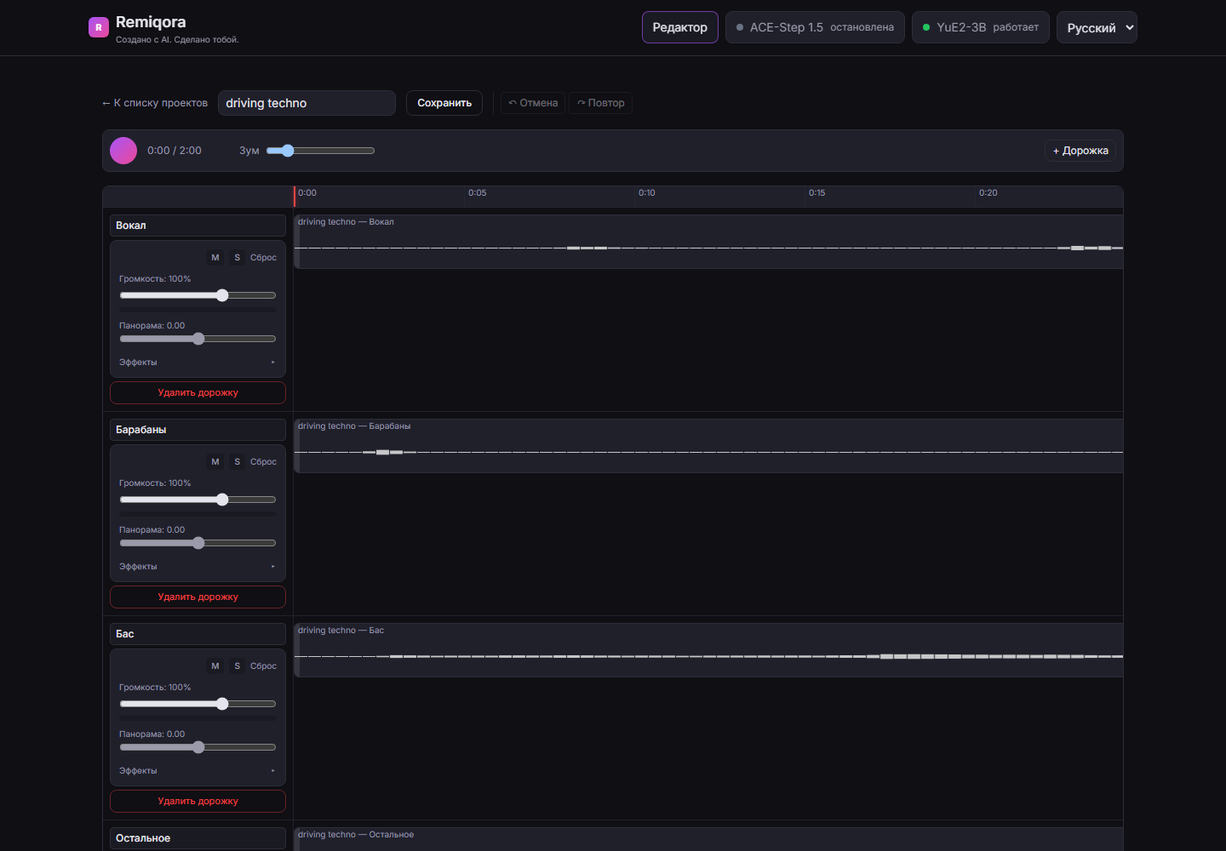
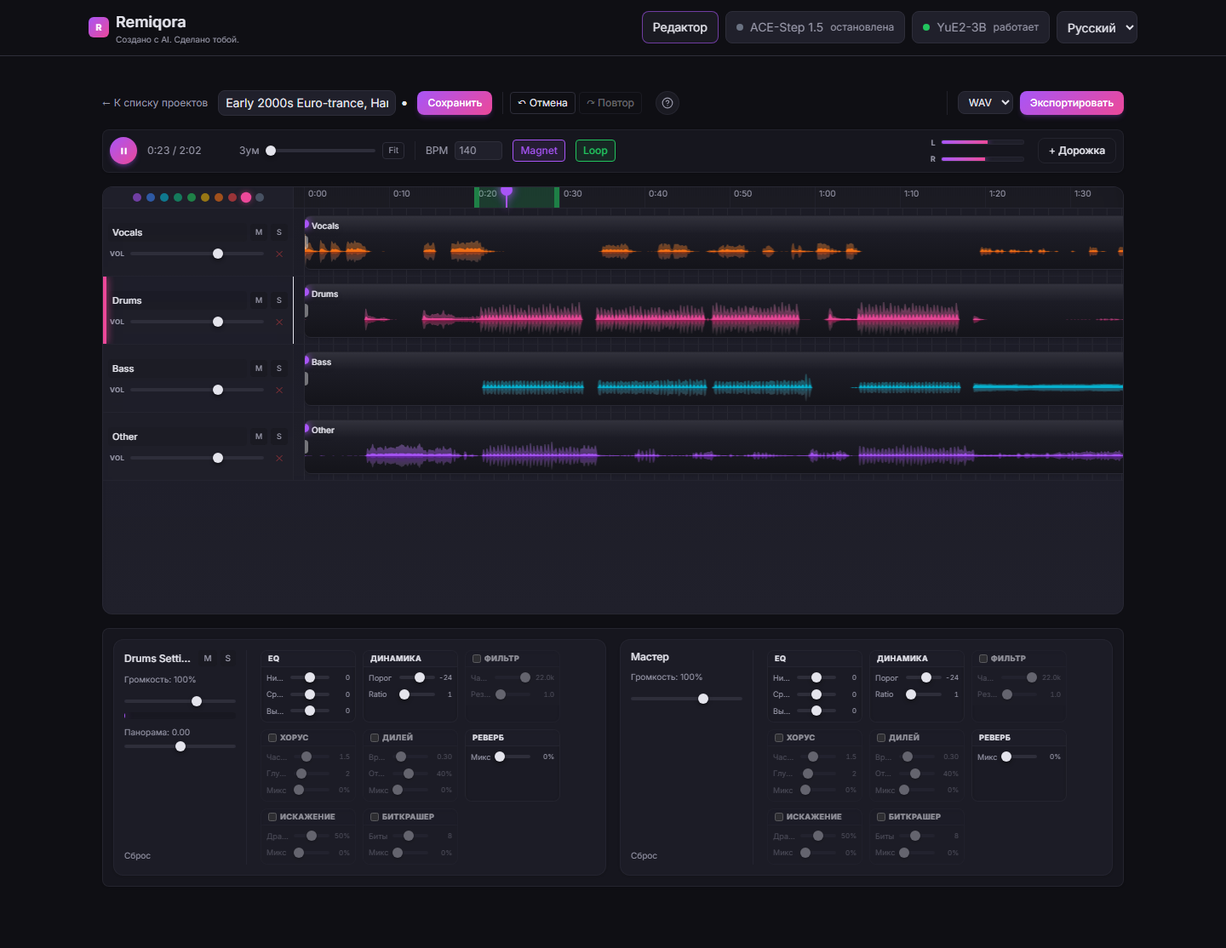
docs: rewrite DAW section and refresh screenshots
- Rewrite the Built-in DAW section in both READMEs: timeline and clips,
  channels and effects, help, project and export
- Drop the removed Mixer section and mixer mentions
- New DAW screenshots (project with four stems) and refreshed stems panel
  for both languages; EN README now points at English screenshots
- Remove the stale mixer screenshots

diff --git a/README.ru.md b/README.ru.md
@@ -47,8 +47,8 @@ ACE-Step и YuE2 — два независимых движка генераци
 
 - **Один UI** вместо двух разных интерфейсов с разным UX.
 - **Взаимоисключающий оркестратор**: выбрали модель в шапке — она поднимается, а другая гасится сама. Не нужно руками стопать процессы перед стартом другого движка.
-- **Общее хранилище**: все треки (сгенерированные, загруженные, собранные в редакторе) сохраняются в единой библиотеке (SQLite + файлы) и доступны из любого модуля — Demucs, MuScriptor, микшер и редактор работают с одной и той же библиотекой, а не тремя разными.
-- **DAW поверх генерации**: результат генерации — это не конечная точка, а сырьё для дальнейшей сборки: разделить на стемы, свести в микшере, перетащить на таймлайн, свести с другими треками и экспортировать.
+- **Общее хранилище**: все треки (сгенерированные, загруженные, собранные в редакторе) сохраняются в единой библиотеке (SQLite + файлы) и доступны из любого модуля — Demucs, MuScriptor и редактор работают с одной и той же библиотекой, а не тремя разными.
+- **DAW поверх генерации**: результат генерации — это не конечная точка, а сырьё для дальнейшей сборки: разделить на стемы, перетащить на таймлайн, обработать эффектами, свести с другими треками и экспортировать.
 - **Своя LoRA-тренировка**: не только генерация — можно дообучить ACE-Step на собственном голосе/стиле прямо из браузера, без консоли.
 
 ---
@@ -63,7 +63,7 @@ ACE-Step и YuE2 — два независимых движка генераци
 | **Тренировка LoRA** | Датасет → авто-разметка → препроцессинг → тренировка → экспорт — весь пайплайн дообучения ACE-Step на своём голосе/стиле в браузере. |
 | **Demucs** | Разделение любого трека на 4 стема: вокал, барабаны, бас, остальное. |
 | **MuScriptor** | Транскрипция аудио (полного микса или отдельного стема) в MIDI-ноты. |
-| **Встроенный DAW** | Многодорожечный таймлайн-редактор для сборки треков/стемов в финальный микс. |
+| **Встроенный DAW** | Многодорожечный таймлайн-редактор для сборки треков/стемов в финальный микс: рэк эффектов на каждом канале, авто-BPM и time-stretch, экспорт в WAV/MP3. |
 
 Интерфейс полностью двуязычный (русский/английский, переключатель в шапке).
 
@@ -109,7 +109,7 @@ ACE-Step и YuE2 — два независимых движка генераци
 
 ![Разделение на стемы](docs/screenshots/05-stems-panel.png)
 
-Одной кнопкой любой сохранённый трек режется на 4 изолированных стема (Demucs `htdemucs`), с прогресс-баром, отдельным плеером и скачиванием на каждый стем, возможностью пересоздать или удалить. Работает параллельно с активной моделью генерации (не останавливая её) на общем GPU-локе.
+Одной кнопкой любой сохранённый трек режется на 4 изолированных стема (Demucs `htdemucs`), с прогресс-баром, отдельным плеером и скачиванием на каждый стем, возможностью пересоздать или удалить. Работает параллельно с активной моделью генерации (не останавливая её) на общем GPU-локе. Кнопка **«Открыть в редакторе»** позволяет мгновенно отправить все 4 стема в новый проект встроенного DAW для последующего сведения.
 
 ## Транскрипция в MIDI (MuScriptor)
 
@@ -117,24 +117,38 @@ ACE-Step и YuE2 — два независимых движка генераци
 
 Транскрибирует в MIDI полный микс или любой уже отделённый стем по отдельности. Технически это не отдельный процесс, а модель, подгружаемая в уже запущенный сервер YuE2 — поэтому **транскрипция требует, чтобы активной моделью была именно YuE2**. Результат: встроенный плеер на Web Audio синтезаторе, мини Piano Roll, счётчик нот и BPM, скачивание `.mid`.
 
-## Микшер
-
-![Микшер стемов](docs/screenshots/09-mixer.png)
-
-Фиксированная 4-канальная консоль (вокал/барабаны/бас/остальное + мастер) для быстрого сведения стемов: громкость, панорама, mute/solo, 3-полосный EQ, компрессор, реверб, VU-метры с индикацией клиппинга. Настройки сохраняются автоматически. Кнопка **«Открыть в редакторе»** переносит все 4 стема с текущими настройками в новый проект полноценного DAW — микшер задуман как быстрый предпросмотр, редактор — как его надмножество.
-
 ## Встроенный DAW
 
-![Редактор с клипом на таймлайне](docs/screenshots/08-editor-with-clip.png)
+![Редактор: проект из четырёх стемов на таймлайне](docs/screenshots/08-editor-with-clip.png)
 
-Произвольное число дорожек, на которые можно добавлять что угодно из общей библиотеки (полный микс, отдельный стем, загруженный с диска файл) — через диалог выбора или прямым перетаскиванием файла на дорожку.
+Произвольное число дорожек, на которые можно добавлять что угодно из общей библиотеки (полный микс, отдельный стем, загруженный с диска файл) — через диалог выбора или прямым перетаскиванием файла на дорожку. Быстрее всего начать со стемов: кнопка **«Открыть в редакторе»** на панели стемов создаёт готовый проект из четырёх дорожек (вокал, барабаны, бас, остальное).
 
-- Свободное перемещение и обрезка краёв клипов (не разрушающая — исходный файл не трогается), магнитное прилипание к соседним клипам и к нулю таймлайна.
-- **Undo/Redo** (Ctrl+Z / Ctrl+Y) — история до **30 шагов**.
-- Горячие клавиши: `Space` — плей/пауза, `Delete` — удалить клип, `Ctrl+D` — дублировать, `Ctrl+колесо` — зум.
-- Защита от потери несохранённых правок при закрытии вкладки или переходе на другую страницу.
-- **Микрофейды**: автоматические линейные рампы 15 мс на краях каждого клипа — убирают цифровые щелчки на резких обрезках.
-- VU-метры с клиппингом на каждой дорожке и мастер-шине; тот же канал-стрип (EQ/компрессор/реверб), что и в микшере.
+### Таймлайн и клипы
+
+- Свободное перемещение и обрезка краёв клипов (не разрушающая — исходный файл не трогается). Клипы всегда прилипают к краям соседних клипов и к нулю таймлайна; кнопка **Magnet** дополнительно включает привязку к сетке по BPM проекта (шаг зависит от масштаба: 1/16, 1/8, 1/4 ноты или такт).
+- **Разрез клипа** под курсором (`S`), дублирование (`Ctrl+D`), удаление (`Delete`).
+- Кнопки на самом клипе: **M** (mute), **S** (solo), **W** (warp) и ✕. По краям клипа — перетаскиваемые ручки **fade-in / fade-out**; по умолчанию на краях стоят автоматические 15 мс микрофейды, убирающие цифровые щелчки на резких обрезках.
+- **Loop**: регион зацикливания на линейке времени — его можно двигать целиком и тянуть за оба края; клик по линейке перематывает воспроизведение.
+- **BPM и Warp**: при добавлении клипа из библиотеки или перетаскиванием с диска темп определяется автоматически (по первым 30 секундам). Поле **BPM** задаёт темп проекта, а кнопка **W** подгоняет клип под этот темп time-stretch'ем (SoundTouch), сохраняя тональность. Детектор простой — на сложном материале может ошибаться.
+- **Undo/Redo** (`Ctrl+Z` / `Ctrl+Y`) — история до **30 шагов**. Зум — `Ctrl+колесо` или ползунок с кнопкой **Fit**, прокрутка таймлайна — `Shift+перетаскивание` или средняя кнопка мыши.
+
+### Каналы и эффекты
+
+![Рэк эффектов на канале вокала](docs/screenshots/10-editor-effects.png)
+
+- У каждой дорожки — громкость, панорама, mute/solo и цвет (кружки над списком дорожек), плюс общая мастер-шина.
+- **Рэк из 8 эффектов** на каждом канале и на мастере: Эквалайзер (Low/Mid/High, ±12 дБ), Динамика (компрессор: порог и ratio), Фильтр (LP/HP: частота и резонанс), Хорус, Дилей, Реверб, Искажение и Биткрашер. Все эффекты работают в реальном времени, значения параметров показываются рядом со слайдерами.
+- Стерео VU-метры мастера (L/R) в тулбаре и индикатор уровня с признаком клиппинга в канале выбранной дорожки.
+
+### Справка
+
+![Встроенная справка по редактору](docs/screenshots/11-editor-help.png)
+
+Кнопка **«?»** в тулбаре открывает встроенную справку: список горячих клавиш, управление мышью и короткие подсказки по Loop и Magnet.
+
+### Проект и экспорт
+
+- Проекты хранятся на сервере и открываются из списка. Автосохранения нет — есть кнопка **«Сохранить»**, а при закрытии вкладки или переходе на другую страницу с несохранёнными правками редактор предупреждает о возможной потере.
 - Экспорт сведённого проекта в **WAV** или **MP3** — рендерится оффлайн (тот же граф обработки, что и при живом воспроизведении) и сохраняется обратно в общую библиотеку треков.
 
 ---

diff --git a/README.md b/README.md
@@ -47,8 +47,8 @@ ACE-Step and YuE2 are two independent music generation engines, each with its ow
 
 - **One UI** instead of two different interfaces with different UX.
 - **Mutually-exclusive orchestrator**: pick a model in the header — it starts up, and the other one stops on its own. No need to manually kill processes before starting the other engine.
-- **Shared storage**: every track (generated, uploaded, or assembled in the editor) is tracked in a centralized SQLite database and shared folder, available from every module — Demucs, MuScriptor, the mixer and the editor all work off the same library instead of three separate ones.
-- **A DAW on top of generation**: a generated track isn't the end point, it's raw material — split it into stems, mix it down, drag it onto a timeline, blend it with other tracks, and export.
+- **Shared storage**: every track (generated, uploaded, or assembled in the editor) is tracked in a centralized SQLite database and shared folder, available from every module — Demucs, MuScriptor and the editor all work off the same library instead of three separate ones.
+- **A DAW on top of generation**: a generated track isn't the end point, it's raw material — split it into stems, drag it onto a timeline, process it with effects, blend it with other tracks, and export.
 - **Built-in LoRA training**: not just generation — fine-tune ACE-Step on your own voice or style right from the browser, no console needed.
 
 ---
@@ -63,7 +63,7 @@ ACE-Step and YuE2 are two independent music generation engines, each with its ow
 | **LoRA training** | Dataset → auto-labeling → preprocessing → training → export — the whole ACE-Step fine-tuning pipeline for your own voice/style, in the browser. |
 | **Demucs** | Splits any track into 4 stems: vocals, drums, bass, other. |
 | **MuScriptor** | Transcribes audio (the full mix or a single stem) into MIDI notes. |
-| **Built-in DAW** | A multitrack timeline editor for assembling tracks/stems into a final mix. |
+| **Built-in DAW** | A multitrack timeline editor for assembling tracks/stems into a final mix: an effects rack on every channel, auto-BPM and time-stretch, WAV/MP3 export. |
 
 The interface is fully bilingual (Russian/English, switcher in the header).
 
@@ -109,7 +109,7 @@ The full ACE-Step fine-tuning pipeline on your own dataset, no console required:
 
 ![Stem separation](docs/screenshots/en/05-stems-panel.png)
 
-One click splits any saved track into 4 isolated stems (Demucs `htdemucs`), with a progress bar, a separate player and download per stem, and the option to redo or delete. Runs alongside the active generation model (without stopping it), sharing a GPU lock.
+One click splits any saved track into 4 isolated stems (Demucs `htdemucs`), with a progress bar, a separate player and download per stem, and the option to redo or delete. Runs alongside the active generation model (without stopping it), sharing a GPU lock. The **"Open in editor"** button allows you to instantly send all 4 stems into a new built-in DAW project for further mixdown.
 
 ## MIDI transcription (MuScriptor)
 
@@ -117,24 +117,38 @@ One click splits any saved track into 4 isolated stems (Demucs `htdemucs`), with
 
 Transcribes the full mix, or any already-separated stem, into MIDI. Technically this isn't a separate process — it's a model loaded into the already-running YuE2 server, so **transcription requires YuE2 to be the active model**. Result: a built-in Web Audio synth player, a mini piano roll, a note count and BPM readout, and `.mid` download.
 
-## Mixer
-
-![Stem mixer](docs/screenshots/en/09-mixer.png)
-
-A fixed 4-channel console (vocals/drums/bass/other + master) for a quick stem mixdown: volume, pan, mute/solo, a 3-band EQ, a compressor, reverb, and VU meters with clipping indication. Settings are saved automatically. The **"Open in editor"** button carries all 4 stems with their current settings into a new full-DAW project — the mixer is meant as a quick preview, the editor as its superset.
-
 ## Built-in DAW
 
-![Editor with a clip on the timeline](docs/screenshots/en/08-editor-with-clip.png)
+![Editor: a four-stem project on the timeline](docs/screenshots/en/08-editor-with-clip.png)
 
-Any number of tracks, onto which you can add anything from the shared library (a full mix, a single stem, a file uploaded from disk) — via a picker dialog or by dragging a file straight onto a track.
+Any number of tracks, onto which you can add anything from the shared library (a full mix, a single stem, a file uploaded from disk) — via a picker dialog or by dragging a file straight onto a track. The quickest way in is through stems: the **"Open in editor"** button on the stems panel creates a ready-made four-track project (vocals, drums, bass, other).
 
-- Free clip repositioning and edge trimming (non-destructive — the source file is untouched), with magnetic snapping to neighboring clips and to timeline zero.
-- **Undo/Redo** (Ctrl+Z / Ctrl+Y) — up to **30 steps** of history.
-- Hotkeys: `Space` — play/pause, `Delete` — remove clip, `Ctrl+D` — duplicate, `Ctrl+wheel` — zoom.
-- Guards against losing unsaved edits when closing the tab or navigating away.
-- **Micro-fades**: automatic 15 ms linear ramps at each clip's edges — remove digital clicks from hard cuts.
-- VU meters with clipping on every track and the master bus; the same channel strip (EQ/compressor/reverb) as the mixer.
+### Timeline and clips
+
+- Free clip repositioning and edge trimming (non-destructive — the source file is untouched). Clips always snap to neighboring clips' edges and to timeline zero; the **Magnet** button additionally snaps to a grid derived from the project BPM (the step depends on zoom: 1/16, 1/8, 1/4 note, or a bar).
+- **Split a clip** at the cursor (`S`), duplicate (`Ctrl+D`), delete (`Delete`).
+- Buttons on the clip itself: **M** (mute), **S** (solo), **W** (warp) and ✕. Draggable **fade-in / fade-out** handles sit on the clip's edges; by default each edge gets an automatic 15 ms micro-fade that removes digital clicks from hard cuts.
+- **Loop**: a loop region on the time ruler — drag it whole or pull either edge; clicking the ruler seeks.
+- **BPM and Warp**: when a clip is added from the library or dragged in from disk, its tempo is detected automatically (from the first 30 seconds). The **BPM** field sets the project tempo, and the **W** button time-stretches the clip to it (SoundTouch) while preserving pitch. The detector is a simple one and can be off on complex material.
+- **Undo/Redo** (`Ctrl+Z` / `Ctrl+Y`) — up to **30 steps** of history. Zoom with `Ctrl+wheel` or the slider and **Fit** button; pan the timeline with `Shift+drag` or the middle mouse button.
+
+### Channels and effects
+
+![Effects rack on the vocals channel](docs/screenshots/en/10-editor-effects.png)
+
+- Every track has volume, pan, mute/solo, and a color (the dots above the track list), plus a shared master bus.
+- **An 8-effect rack** on every channel and on the master: EQ (Low/Mid/High, ±12 dB), Dynamics (compressor: threshold and ratio), Filter (LP/HP: frequency and resonance), Chorus, Delay, Reverb, Distortion, and Bitcrush. All effects run in real time, with parameter values shown next to the sliders.
+- Stereo master VU meters (L/R) in the toolbar, and a level meter with clipping indication in the selected track's channel.
+
+### Help
+
+![Built-in editor help](docs/screenshots/en/11-editor-help.png)
+
+The **"?"** button in the toolbar opens built-in help: a list of hotkeys, mouse controls, and short tips on Loop and Magnet.
+
+### Project and export
+
+- Projects are stored on the server and opened from a list. There is no autosave — use the **Save** button; if you close the tab or navigate away with unsaved edits, the editor warns you about losing them.
 - Export the mixed-down project as **WAV** or **MP3** — rendered offline (the same processing graph as live playback) and saved back into the shared track library.
 
 ---
